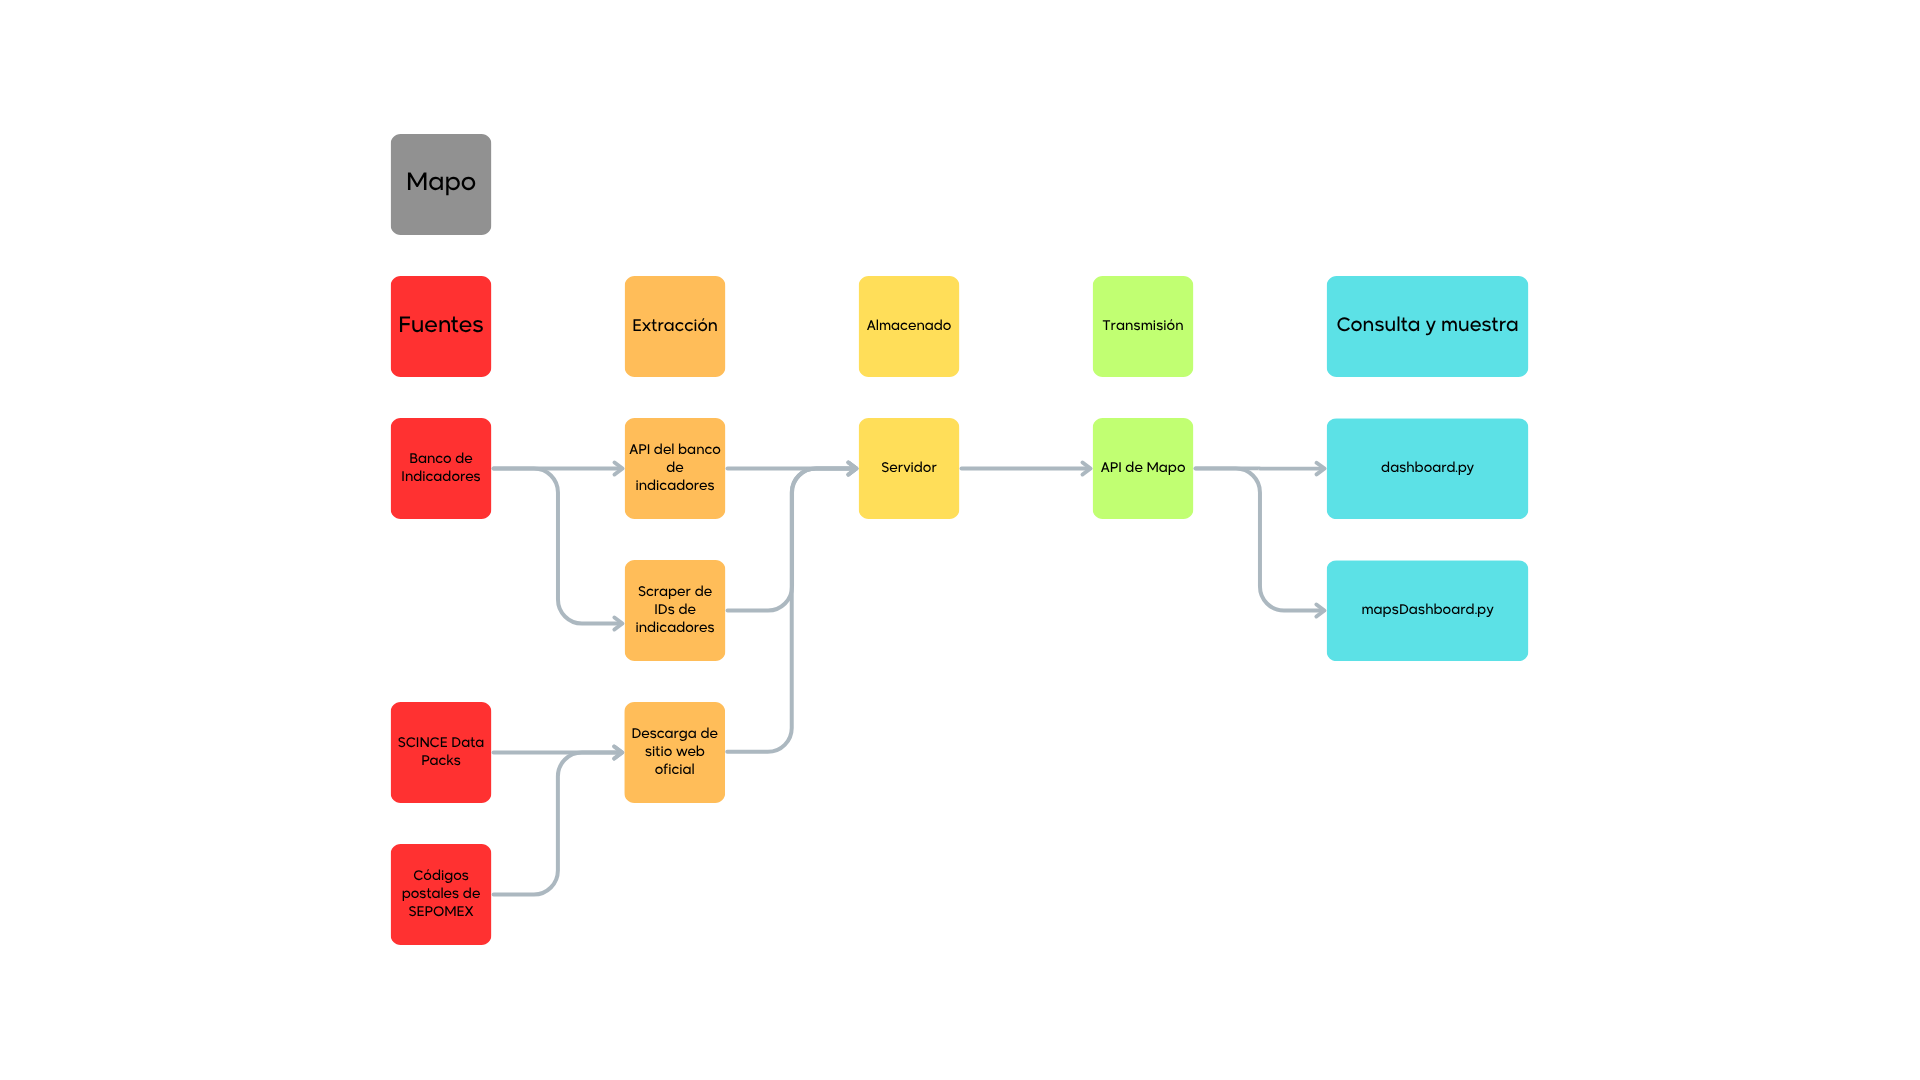
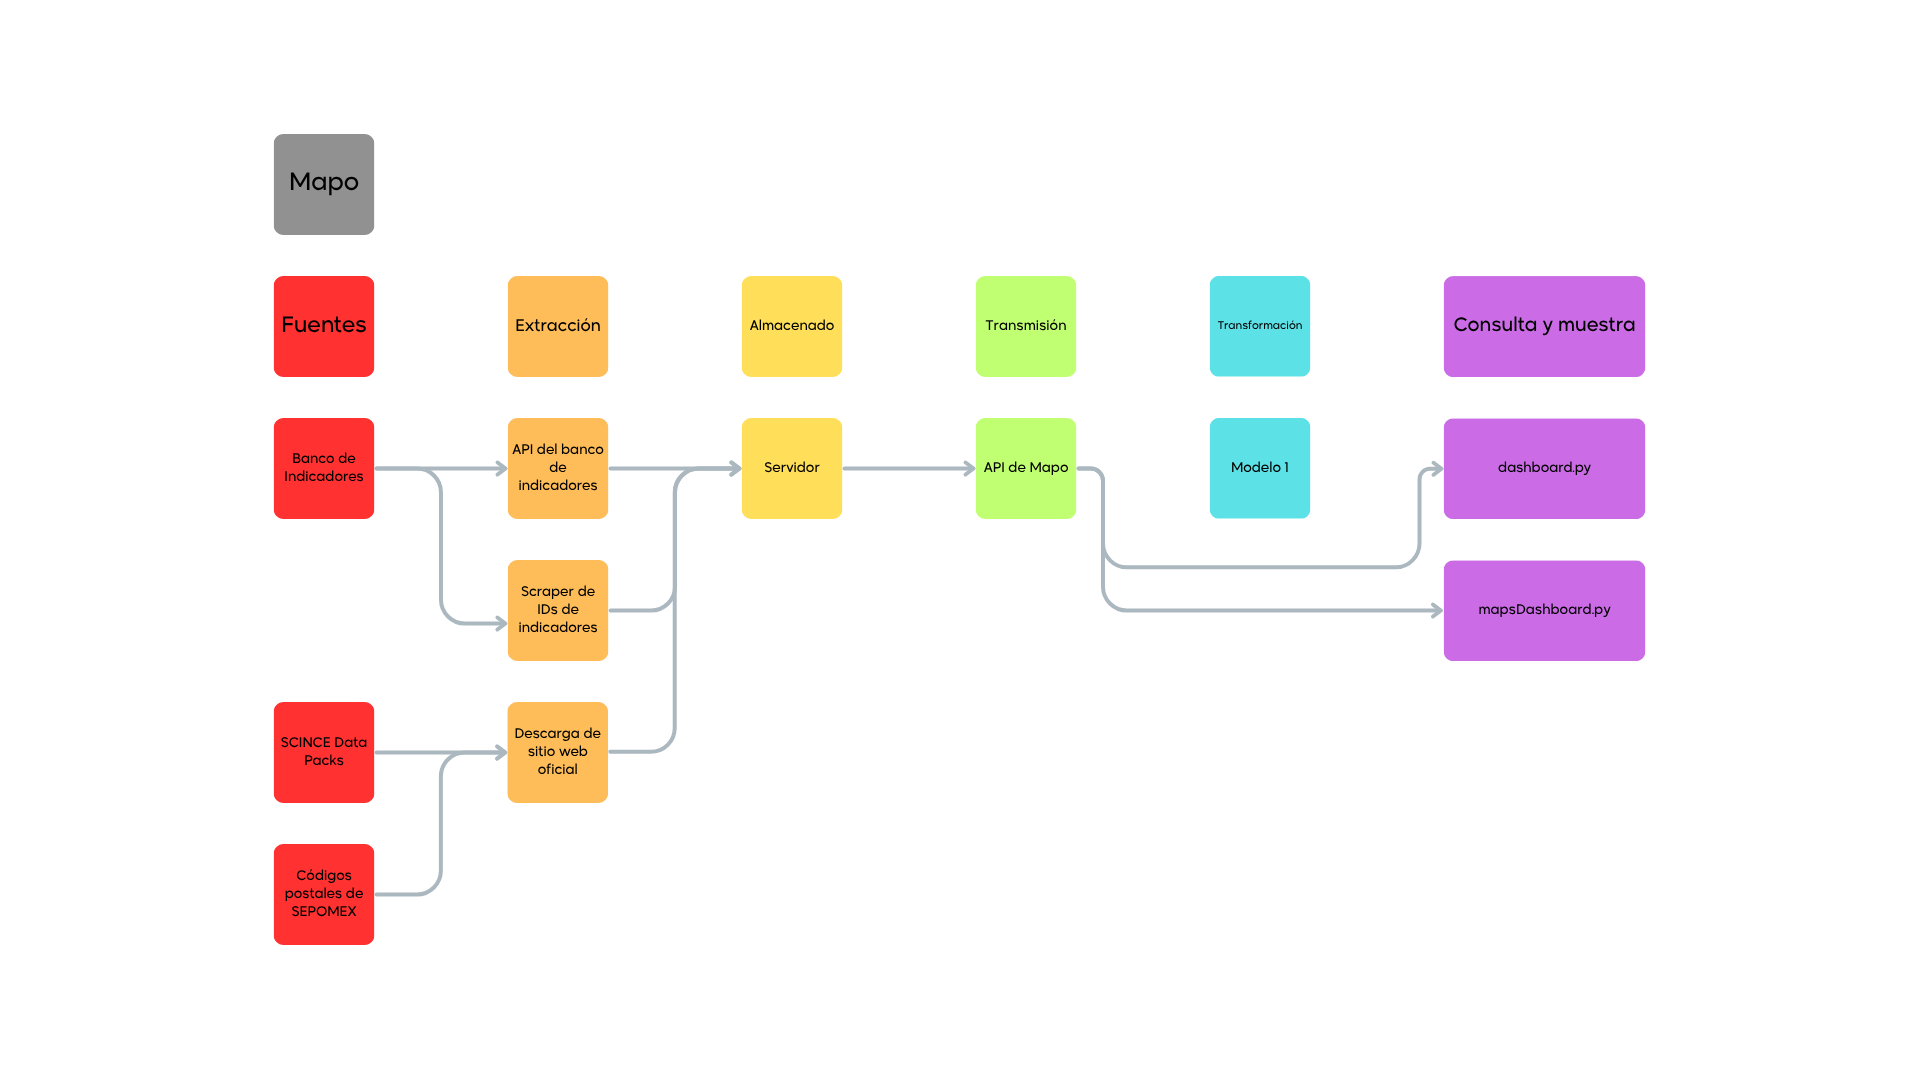
chore(docs): added some reqs for client side and added model process to the dependency diagram

Changed region(s): [[0.125, 0.1222, 0.875, 0.6111], [0.125, 0.6417, 0.4062, 0.8861], [0.2188, 0.5194, 0.4062, 0.6111]]

diff --git a/log.md b/log.md
@@ -33,3 +33,7 @@
 *Domingo 06/07/25 20:51:*
 <br> [mapsDashboard.py] -> agregué filtros de estado, como no tiene que cargar todo de una sola vez, ahora es más rápido.
 <br> solo se me ha ocurrido una manera de guardar cada zipcode como su propio objeto, y es con un regex, pero dada la naturaleza de los xml no tengo certeza de que pueda ser una solución general. Comenzaré con pruebas mañana.
+
+**[Remi]**
+*Jueves 17/07/25 19:12:*
+<br> [Docs] -> llevo avanzando un rato en la documentación, el listado de requerimientos está bastante avanzado y eso permite el trabajo en otra clase de documentación, creo que haré un diagrama de tablas mañana.
